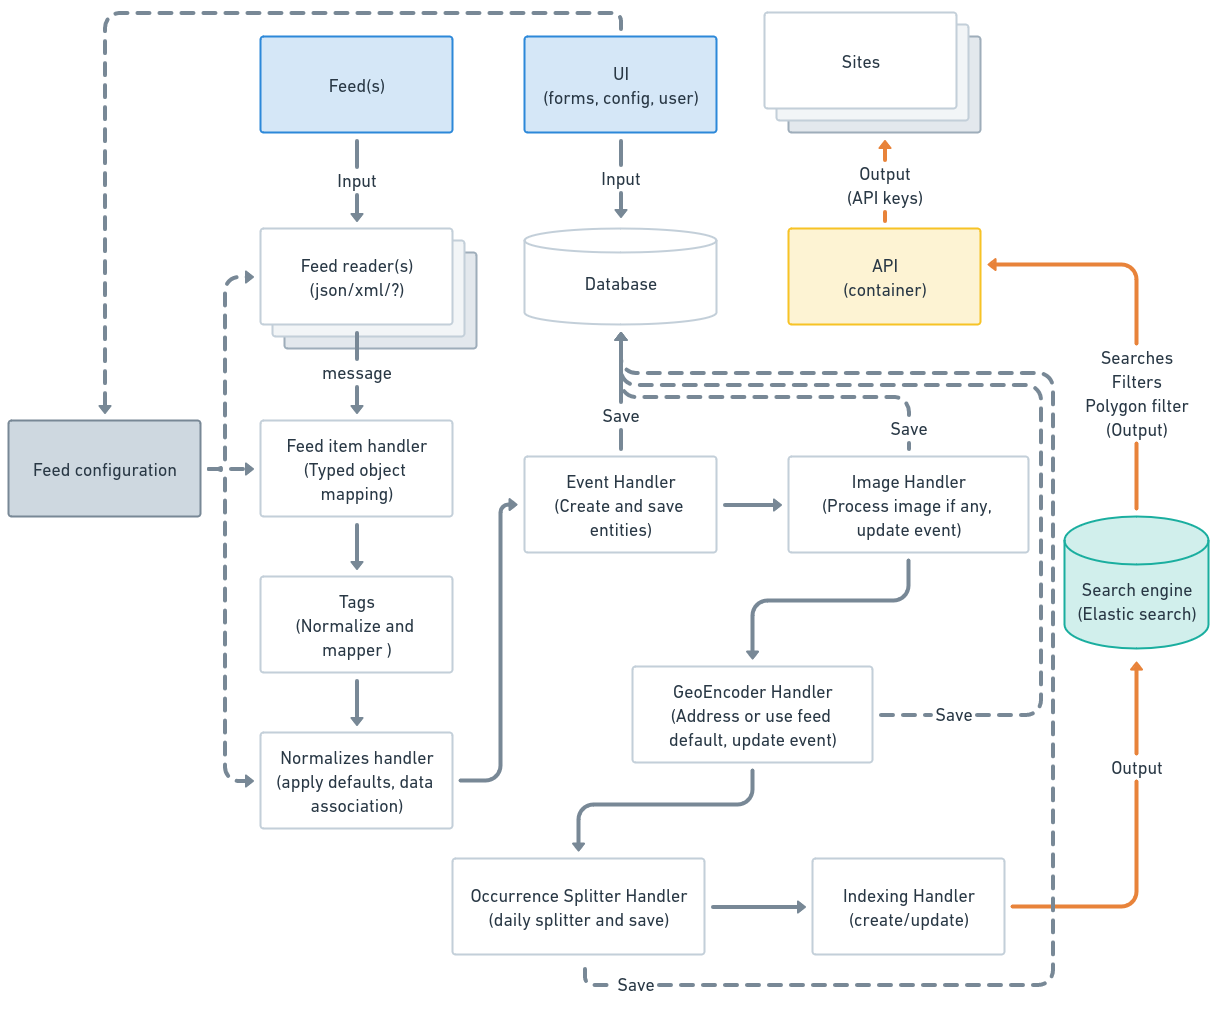
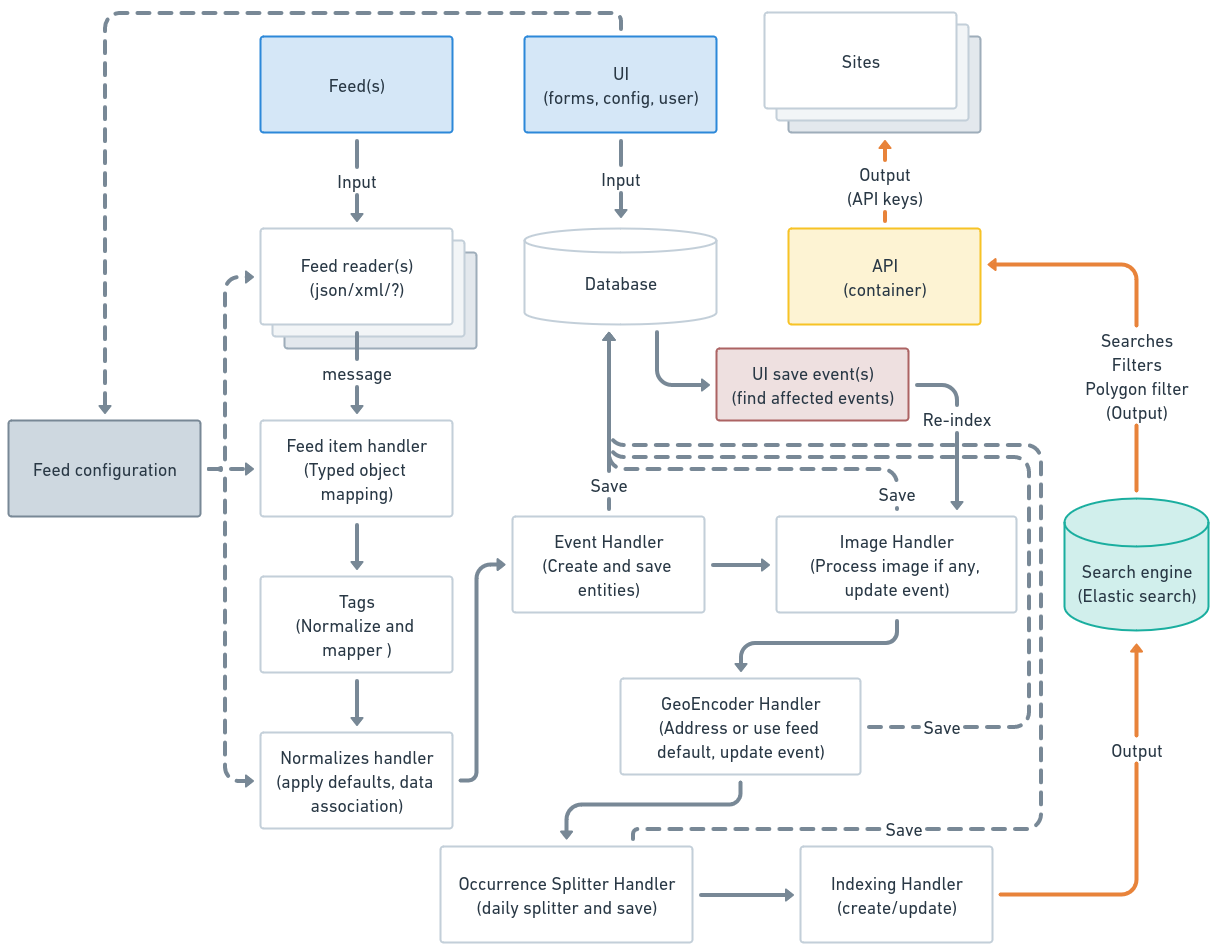
EV-318: Firste take on edit entities events

diff --git a/src/EventSubscriber/EasyAdminSubscriber.php b/src/EventSubscriber/EasyAdminSubscriber.php
@@ -1,0 +1,91 @@
+<?php
+
+namespace App\EventSubscriber;
+
+use App\Entity\Address;
+use App\Entity\Event;
+use App\Entity\Image;
+use App\Entity\Location;
+use App\Entity\Tag;
+use App\Message\ImageMessage;
+use App\Service\Finder;
+use EasyCorp\Bundle\EasyAdminBundle\Event\AfterEntityPersistedEvent;
+use EasyCorp\Bundle\EasyAdminBundle\Event\AfterEntityUpdatedEvent;
+use EasyCorp\Bundle\EasyAdminBundle\Event\BeforeEntityPersistedEvent;
+use Symfony\Component\EventDispatcher\EventSubscriberInterface;
+use Symfony\Component\Messenger\MessageBusInterface;
+
+class EasyAdminSubscriber implements EventSubscriberInterface
+{
+    public function __construct(
+        private readonly MessageBusInterface $messageBus,
+        private readonly Finder $finder,
+    ) {
+    }
+
+    public static function getSubscribedEvents(): array
+    {
+        return [
+            BeforeEntityPersistedEvent::class => ['beforeEntityPersisted'],
+            AfterEntityPersistedEvent::class => ['afterEntityPersisted'],
+            AfterEntityUpdatedEvent::class => ['afterEntityUpdated'],
+        ];
+    }
+
+    public function beforeEntityPersisted(BeforeEntityPersistedEvent $event): void
+    {
+        // Event, tags
+        $entity = $event->getEntityInstance();
+        $t = 1;
+    }
+
+    public function afterEntityUpdated(AfterEntityUpdatedEvent $event): void
+    {
+        $entity = $event->getEntityInstance();
+        $this->handle($entity);
+    }
+
+    public function afterEntityPersisted(AfterEntityPersistedEvent $event): void
+    {
+        $entity = $event->getEntityInstance();
+        $this->handle($entity);
+    }
+
+    private function handle(object $entity)
+    {
+        switch (get_class($entity)) {
+            case Image::class:
+                // Update/download image and find all events using that image and reindex the events.
+
+                break;
+
+            case Tag::class:
+                // Find all events with that tag and reindex
+                $events = $this->finder->search(Tag::class, $entity);
+                foreach ($events as $event) {
+                    $this->reindex($event);
+                }
+                break;
+
+            case Address::class:
+                // Find all locations using this address and update all events using that location.
+
+                break;
+
+            case Location::class:
+                // Find all events using this location.
+
+            case Event::class:
+                // We need to send create/updated events into the message processing queue, and we hook into the feed event
+                // processing at image processing.
+
+                // $this->messageBus->dispatch(new ImageMessage($entity->getId(), $entity->getImage()?->getId()));
+                break;
+        }
+    }
+
+    private function reindex(Event $event): void
+    {
+        $this->messageBus->dispatch(new ImageMessage($event->getId(), $event->getImage()?->getId()));
+    }
+}

diff --git a/src/Service/Finder.php b/src/Service/Finder.php
@@ -1,0 +1,49 @@
+<?php
+
+namespace App\Service;
+
+use App\Entity\Address;
+use App\Entity\Image;
+use App\Entity\Location;
+use App\Entity\Tag;
+use App\Repository\TagRepository;
+
+final class Finder
+{
+    public function __construct(
+        private readonly TagRepository $tagRepository,
+    ) {
+    }
+
+    public function search(string $className, object $entity): iterable
+    {
+        switch ($className) {
+            case Image::class:
+                // Update/download image and find all events using that image and reindex the events.
+
+                break;
+
+            case Tag::class:
+                // Find all events with that tag and reindex
+                return $this->findEventsFromTagId($entity->getId());
+                break;
+
+            case Address::class:
+                // Find all locations using this address and update all events using that location.
+
+                break;
+
+            case Location::class:
+                // Find all events using this location.
+
+                break;
+        }
+    }
+
+    private function findEventsFromTagId(int $tagId): iterable
+    {
+        $tag = $this->tagRepository->find($tagId);
+
+        return $tag->getEvents();
+    }
+}

diff --git a/src/Service/Indexing/IndexingEvents.php b/src/Service/Indexing/IndexingEvents.php
@@ -108,6 +108,12 @@ final class IndexingEvents extends AbstractIndexingElastic
                 'type' => 'integer',
                 'doc_values' => false,
             ],
+            'title' => [
+                'type' => 'text',
+                'index_options' => 'docs',
+                'index' => false,
+                'norms' => false,
+            ],
             'excerpt' => [
                 'type' => 'text',
                 'index_options' => 'docs',
